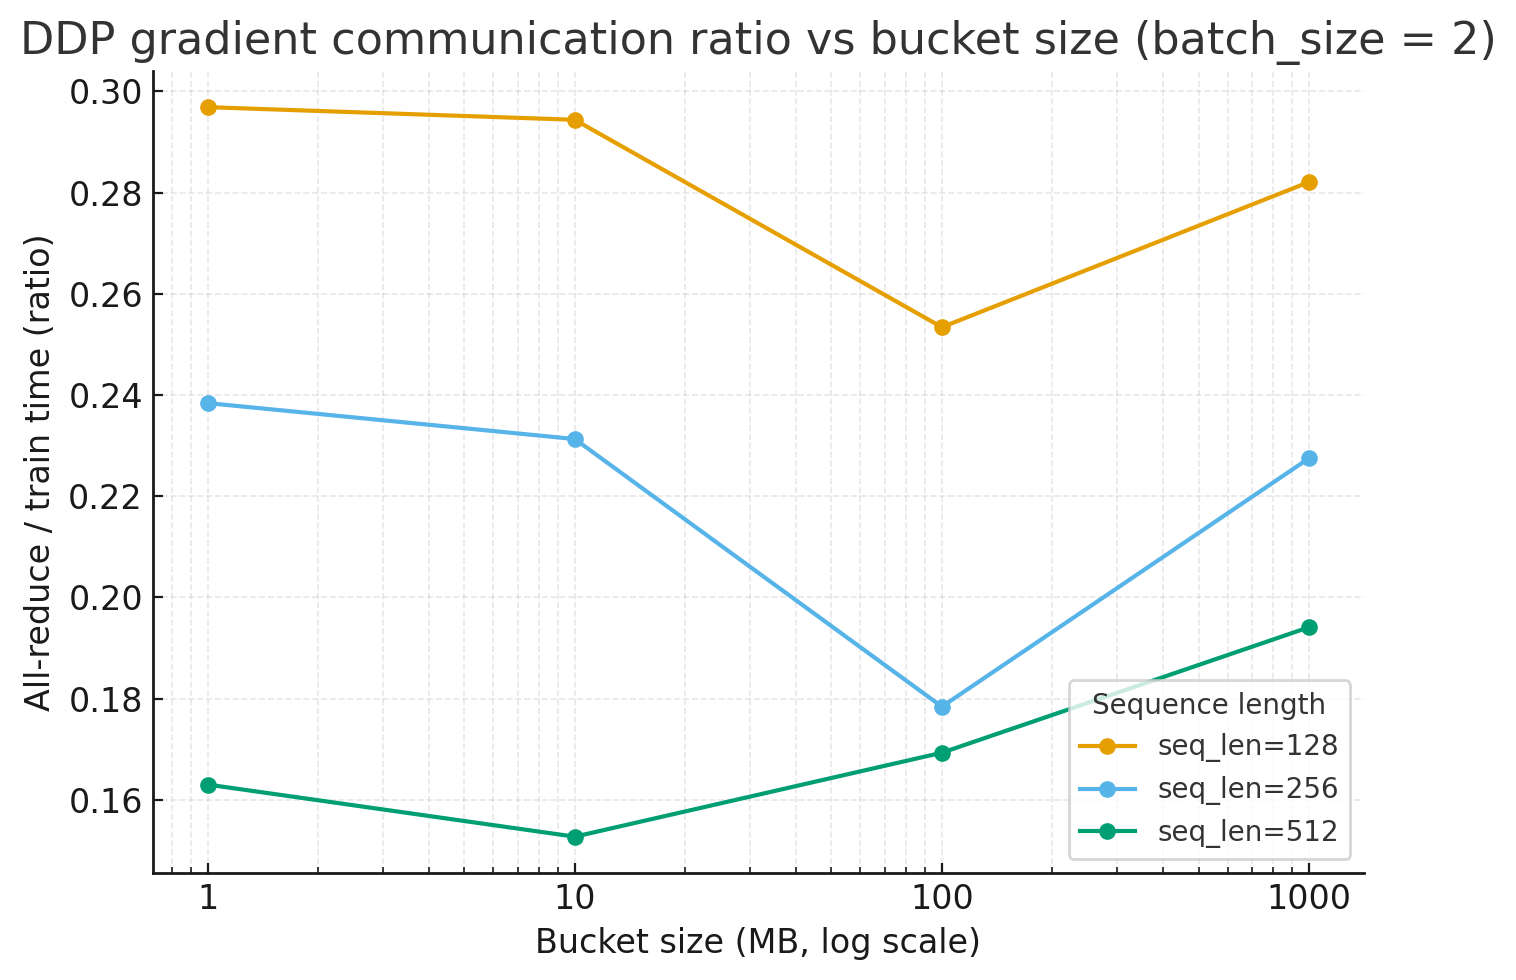
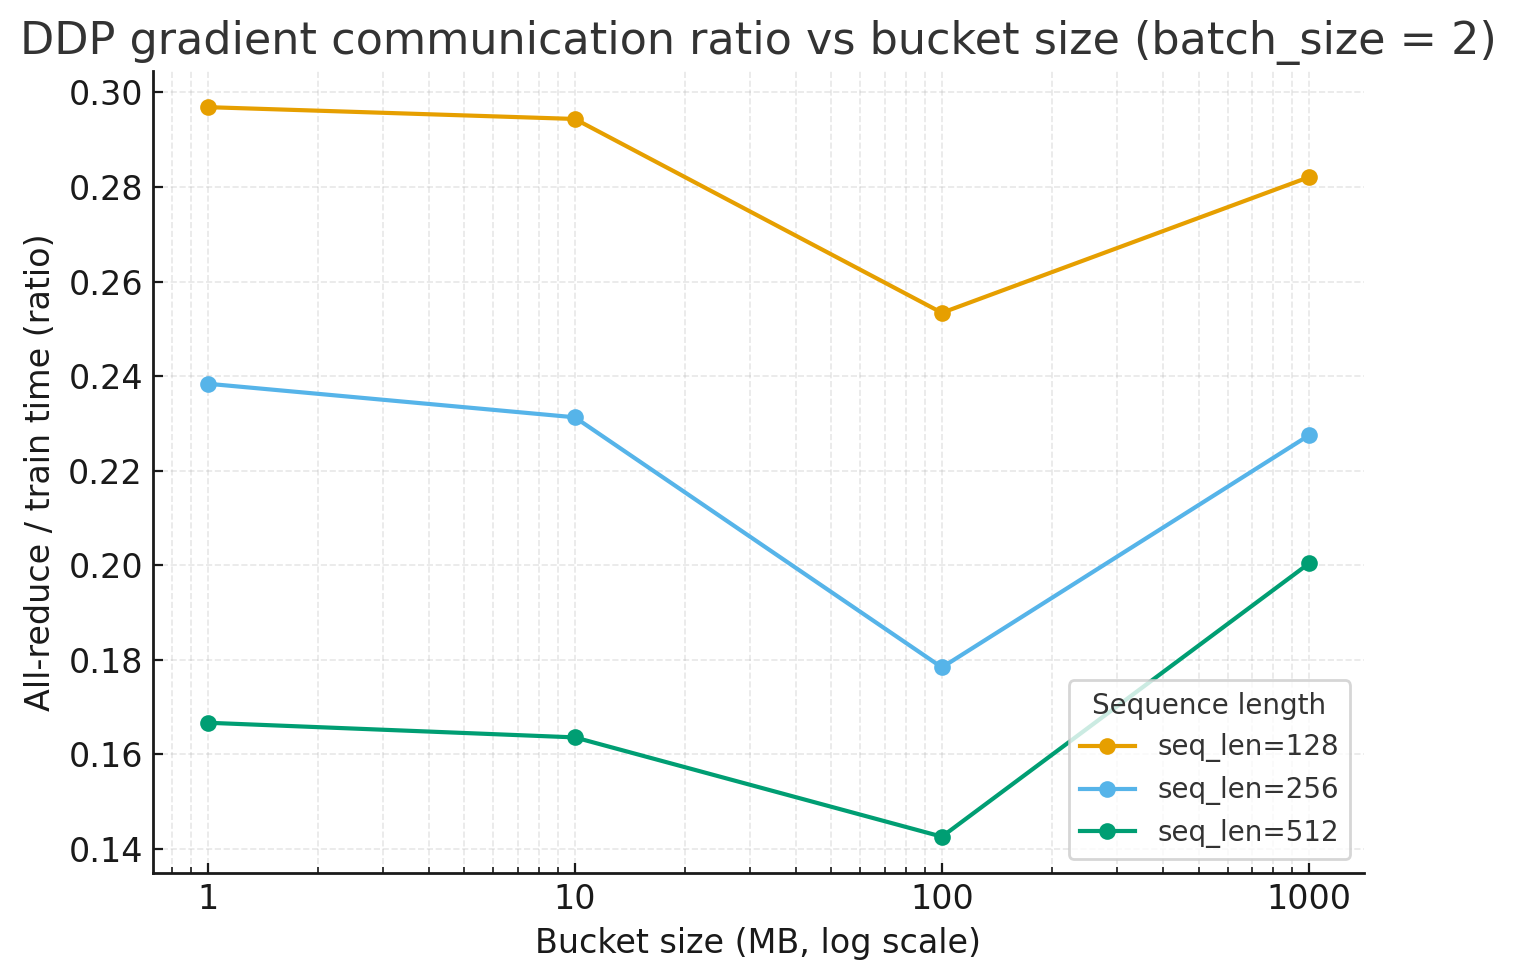
Re-ran  the seq 512 and got the right results. Seems like the last one was due to noise.

diff --git a/cs336_systems/benchmarking_scripts/ddp_bucketed_benchmarking.py b/cs336_systems/benchmarking_scripts/ddp_bucketed_benchmarking.py
@@ -126,8 +126,8 @@ def train(rank, world_size, nb_iters, model_dict, optimizer_dict, local_bs, nb_w
 if __name__ == "__main__":
     world_size = 2
     nb_iters = 10
-    local_bss = [2]
-    seq_lengths = [512]
+    local_bss = [2, 4]
+    seq_lengths = [128, 256, 512]
     bucket_size_mbss = [1, 10, 100, 1000]
     warmup=10
     # XL model
